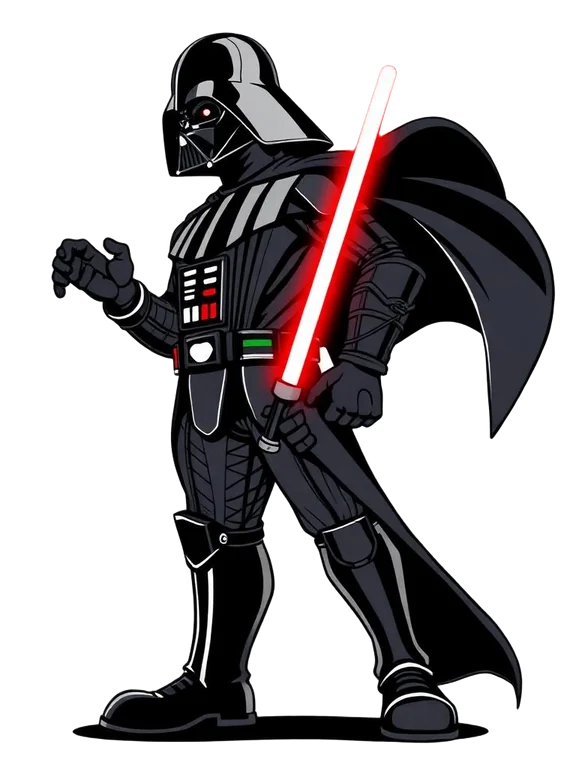
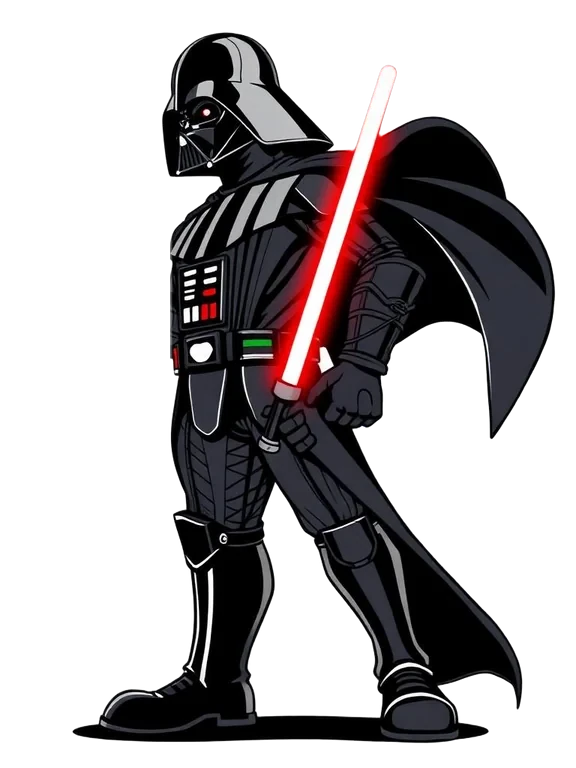
VibeQuest Vader Duel: the moving arm replaces the painted one
The painted claw arm is erased from boss-vader.webp, so Vader has one arm
on that side instead of two, and the IK arm's shoulder moves to where the
painted one joined the body. Character choice is unchanged and still works
from the picker and the in-game 🎮 button (checked with Witch Cat and
Capybara).

Claude-Session: https://claude.ai/code/session_012b7fNTuU4R783d6bwTQdDX

Changed region(s): [[0.0625, 0.3125, 0.3125, 0.4688]]

diff --git a/src/vibequest/components/StarWarsShooter.tsx b/src/vibequest/components/StarWarsShooter.tsx
@@ -724,7 +724,8 @@ export const StarWarsShooter = ({
         // player and slowly closing into a Force grip, then driven down,
         // palm open, into the floor to send the wave.
         ctx.shadowBlur = 0;
-        const shX = -VADER_W * 0.2, shY = -VADER_H * 0.66;
+        // The painted arm is erased from boss-vader.webp; this one hangs from the same shoulder.
+        const shX = -VADER_W * 0.16, shY = -VADER_H * 0.68;
         const L1 = VADER_H * 0.17, L2 = VADER_H * 0.16, reach = L1 + L2;
         const swing = walking ? Math.sin(v.walkPhase) : 0;
         const rest = { x: -14 + swing * 16, y: reach * 0.9 };
